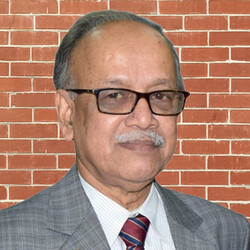
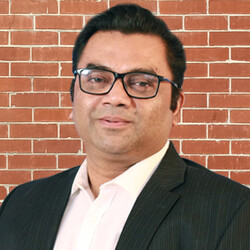
Fix: Booking email error - remove message->embed() from blade, use attach() in Mailable instead - now booking success even without guest email

diff --git a/resources/views/emails/roombookingmail.blade.php b/resources/views/emails/roombookingmail.blade.php
@@ -222,22 +222,11 @@
                     </table>
                 </div>
 
-                <!-- Guest Image -->
-                @php
-                    $embeddedImage = null;
-                    if (!empty($image_file)) {
-                        $fullImagePath = public_path('bookingsimage/' . $image_file);
-                        if (file_exists($fullImagePath)) {
-                            $embeddedImage = $message->embed($fullImagePath);
-                        }
-                    }
-                @endphp
-
-                @if($embeddedImage)
+                @if(!empty($image_file))
                     <div style="margin-bottom:20px;">
                         <h3 style="margin:0 0 10px; font-size:16px; color:#111827; border-left:4px solid #033364; padding-left:10px;">Guest Image</h3>
-                        <div style="padding:10px; border:1px solid #e5e7eb; border-radius:10px; background:#fafafa;">
-                            <img src="{{ $embeddedImage }}" alt="Guest Image" style="max-width:200px; width:100%; height:auto; border-radius:10px; display:block;">
+                        <div style="padding:10px; border:1px solid #e5e7eb; border-radius:10px; background:#fafafa; font-size:13px; color:#6b7280;">
+                            📎 Guest image is attached to this email.
                         </div>
                     </div>
                 @endif

diff --git a/app/Mail/RoomBookingMail.php b/app/Mail/RoomBookingMail.php
@@ -19,8 +19,21 @@ class RoomBookingMail extends Mailable
 
     public function build()
     {
-        return $this->subject('New Room Booking Received')
+        $mail = $this->subject('New Room Booking Received')
             ->view('emails.roombookingmail')
             ->with($this->payload);
+
+        // Image থাকলে attachment হিসেবে attach করি
+        if (!empty($this->payload['image_file'])) {
+            $imagePath = public_path('bookingsimage/' . $this->payload['image_file']);
+            if (file_exists($imagePath)) {
+                $mail->attach($imagePath, [
+                    'as'   => $this->payload['image_file'],
+                    'mime' => mime_content_type($imagePath),
+                ]);
+            }
+        }
+
+        return $mail;
     }
 }
